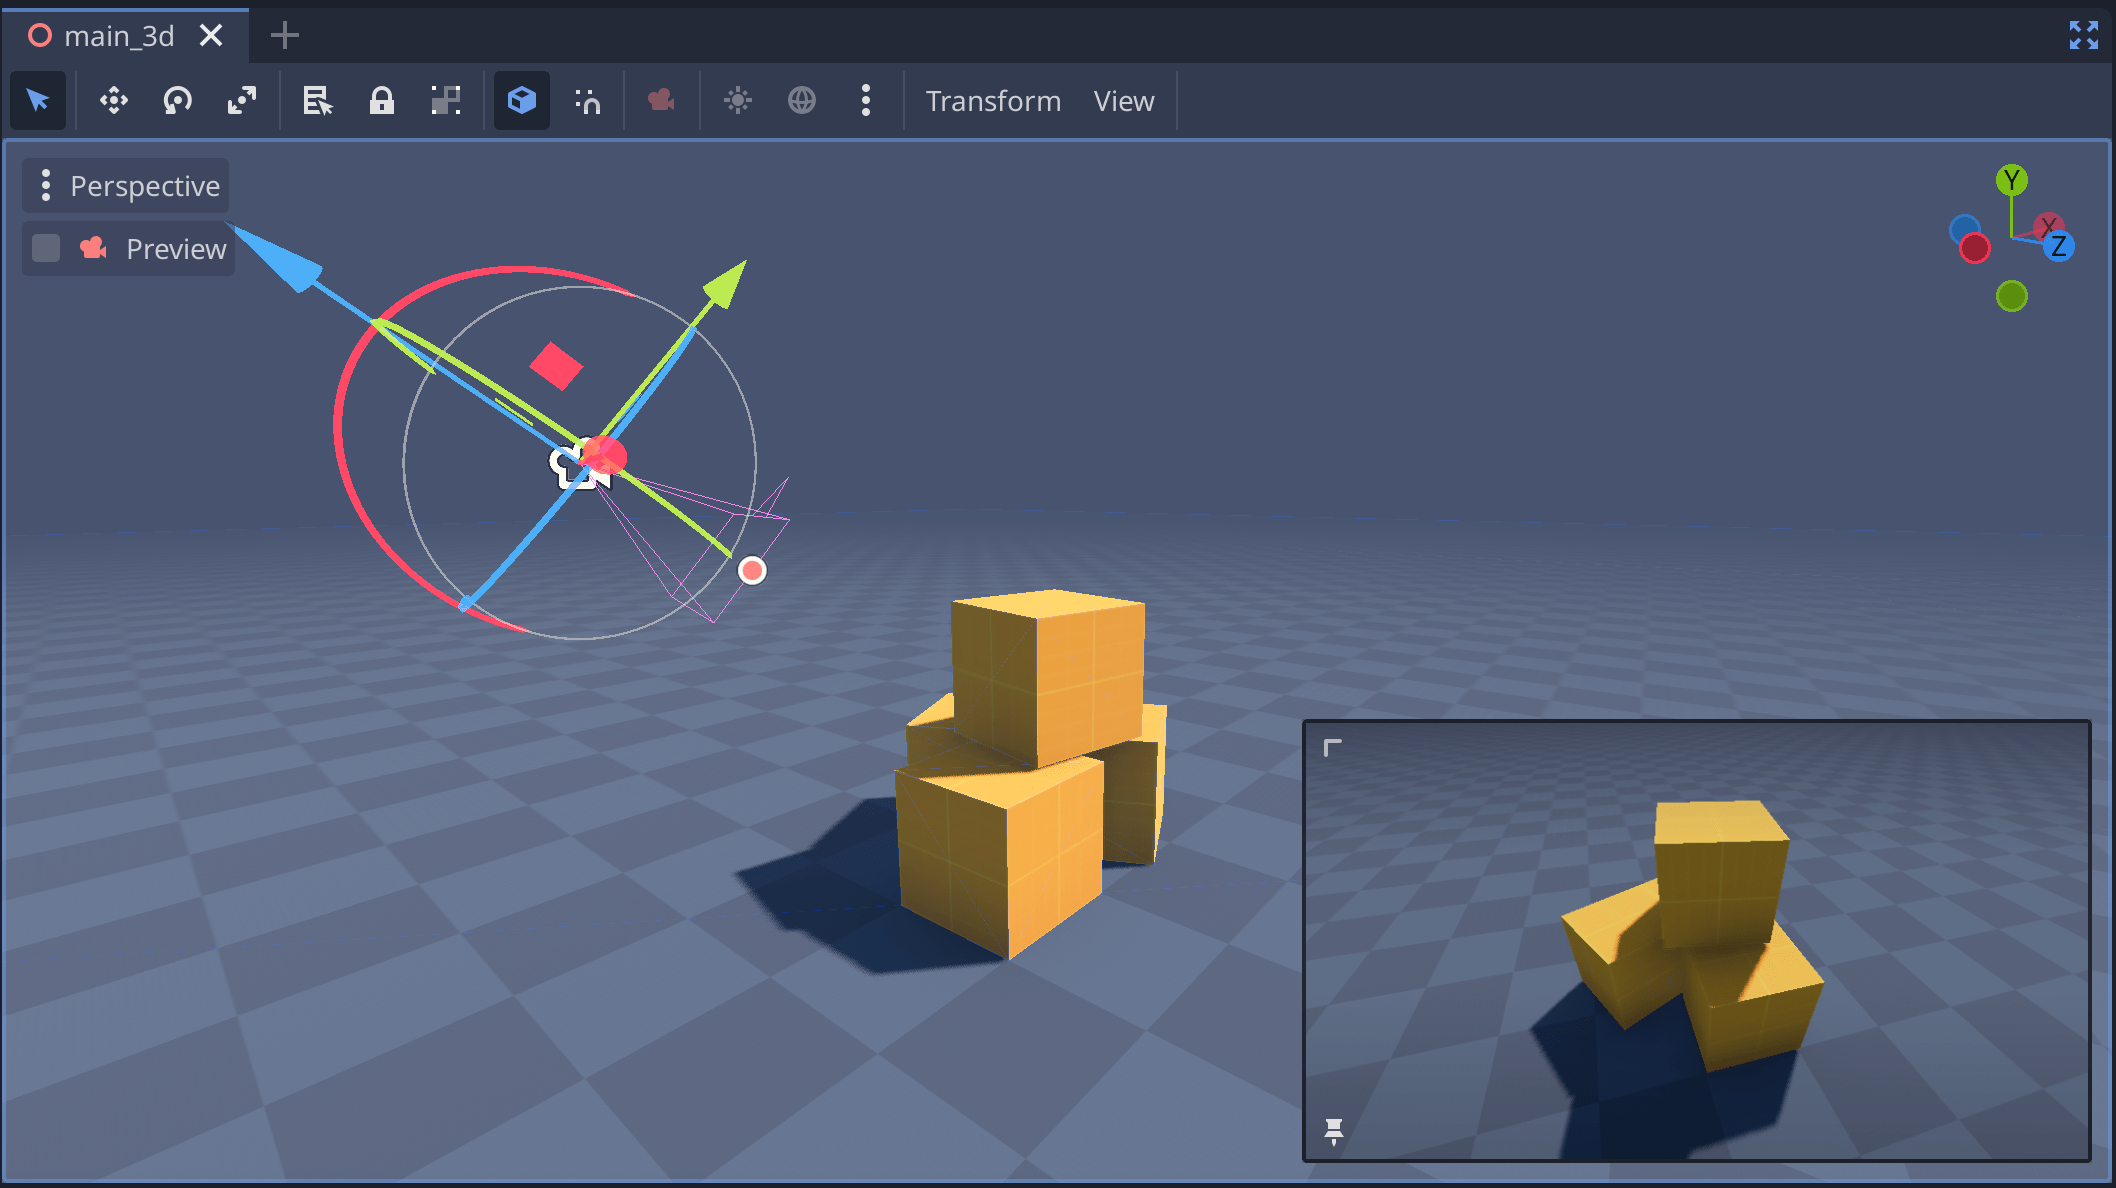
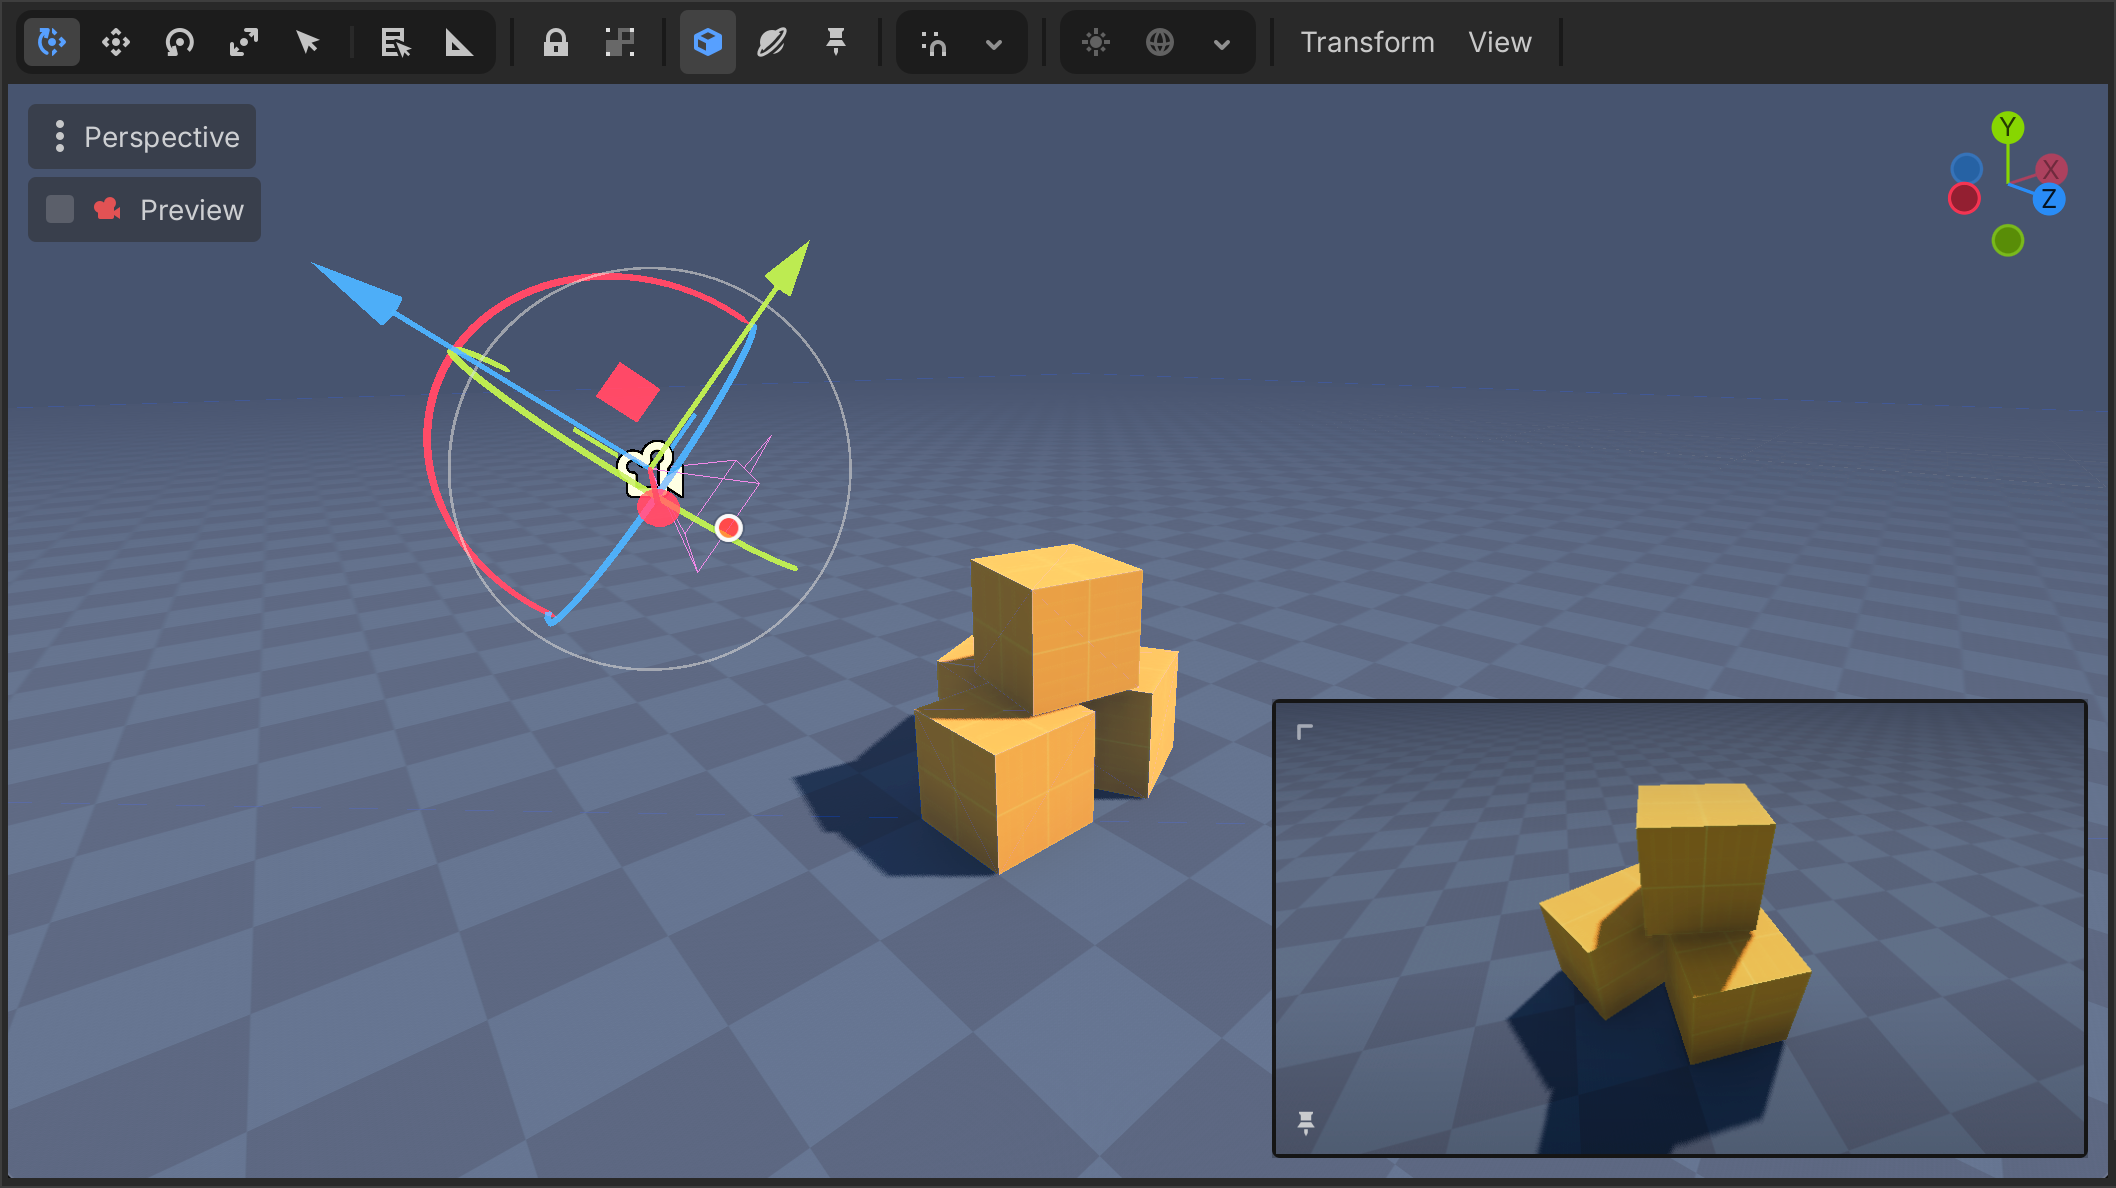
Update README

Changed region(s): [[0.0, 0.0, 1.0, 1.0]]

diff --git a/README.md b/README.md
@@ -12,7 +12,7 @@ Install via the [Asset Library](https://godotengine.org/asset-library/asset/2500
 
 If you've downloaded this manually, do the following:
 
-- Ensure you're using **Godot 4.2 or above**
+- Ensure you're using **Godot 4.8 or above**
 - Find the `addons` folder in your project files, or create it if it doesn't exist yet.
 - Move the folder `addons/anthonyec.camera_preview` to your project's `addons` folder.
 - Enable Little Camera Preview under `Project > Project Settings > Plugins`
